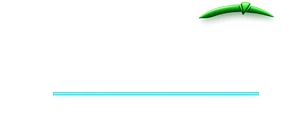
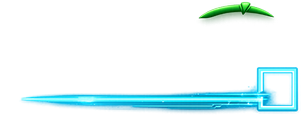
UI tweaks

Changed region(s): [[0.0586, 0.5739, 0.9967, 0.9913]]

diff --git a/selfdrive/ui/carrot.cc b/selfdrive/ui/carrot.cc
@@ -585,6 +585,8 @@ private:
     bool    lead_status = false;
     float   radarDist = 0.0;
     float   visionDist = 0.0;
+    float   leadSpeed = 0.0;
+    bool    leadSpeedValid = false;
     int     xState = 0;
     int     trafficState = 0;
 
@@ -634,6 +636,8 @@ protected:
 
         auto lead_one = sm["radarState"].getRadarState().getLeadOne();
         lead_status = lead_one.getStatus();
+        leadSpeedValid = lead_status;
+        leadSpeed = leadSpeedValid ? lead_one.getVLeadK() : 0.0;
         if (lead_status) {
             z = line.getZ()[get_path_length_idx(line, lead_one.getDRel())];
             max_distance = lead_one.getDRel();
@@ -764,32 +768,19 @@ public:
         else draw_dist = true;
 
         if (draw_dist) {
-            //float dist = (getRadarDist() > 0.0) ? getRadarDist() : getVisionDist();
-            //if (dist < 10.0) sprintf(str, "%.1f", dist);
-            //else sprintf(str, "%.0f", dist);
-            //ui_draw_text(s, x, disp_y, str, disp_size, COLOR_WHITE, BOLD);
-            int wStr = 0, w = 80;
-            float dist = radarDist * (s->scene.is_metric ? 1 : METER_TO_FOOT);
             NVGcolor text_color = (xState==0) ? COLOR_WHITE : (xState==1) ? COLOR_GREY : COLOR_GREEN;
-            if (dist > 0.0) {
-                sprintf(str, "%.1f", dist);
-                wStr = 32 * (strlen(str) + 0);
-                ui_fill_rect(s->vg, { (int)(x - w - wStr / 2), (int)(disp_y - 35), wStr, 42 }, isLeadSCC() ? COLOR_RED : COLOR_ORANGE, 15);
-                ui_draw_text(s, x - w, disp_y, str, 40, text_color, BOLD);
-            }
-            dist = visionDist * (s->scene.is_metric ? 1 : METER_TO_FOOT);
-            if (dist > 0.0) {
-                sprintf(str, "%.1f", dist);
-                wStr = 32 * (strlen(str) + 0);
-                ui_fill_rect(s->vg, { (int)(x + w - wStr / 2), (int)(disp_y - 35), wStr, 42 }, COLOR_BLUE, 15);
-                ui_draw_text(s, x + w, disp_y, str, 40, text_color, BOLD);
+            if (leadSpeedValid) {
+                float lead_speed_disp = leadSpeed * (s->scene.is_metric ? MS_TO_KPH : MS_TO_MPH);
+                sprintf(str, "%.0f", lead_speed_disp);
+                int wStr = 36 * (int)strlen(str);
+                ui_fill_rect(s->vg, { (int)(x - wStr / 2), (int)(disp_y - 35), wStr, 42 }, isLeadSCC() ? COLOR_RED : COLOR_ORANGE, 15);
+                ui_draw_text(s, x, disp_y + 58, str, 60, text_color, BOLD);
             }
         }
         QPolygonF tf_vertext;
         if (tf_distance > 0) {
           tf_vertext.push_back(tf_vertex_left);
           tf_vertext.push_back(tf_vertex_right);
-          ui_draw_line(s, tf_vertext, nullptr, nullptr, 3.0, COLOR_WHITE);
           sprintf(str, "%.1f(%.2f)", tf_distance, t_follow);
           ui_draw_text(s, tf_vertex_right.x(), tf_vertex_right.y(), str, 25, COLOR_WHITE, BOLD);
         }
@@ -2906,7 +2897,7 @@ protected:
         ui_fill_rect(vg, {x, y, w, h}, COLOR_BLACK_ALPHA(150), 20);
         if (!active) return;
 
-        float phase = (float)(blinker_anim_phase % 24) / 23.0f;
+        float phase = (float)(blinker_anim_phase % 18) / 17.0f;
         float progress = (phase < 0.5f) ? (phase * 2.0f) : 1.0f;
         float center_y = y + h / 2.0f;
         int fill_h = (int)(h * progress);
@@ -2977,7 +2968,7 @@ public:
         ui_fill_rect(vg, { 0, h / 2 + 100, w, h }, bottom_bar, 15);
 
         int blink_w = 84;
-        int blink_h = 384;
+        int blink_h = 420;
         int blink_y = h / 2 - blink_h / 2;
         draw_blinker_lane(vg, w - blink_w, blink_y, blink_w, blink_h, _right_blinker);
         draw_blinker_lane(vg, 0, blink_y, blink_w, blink_h, _left_blinker);
@@ -2995,82 +2986,6 @@ public:
         if (x_st > w - 50) x_st = w - 50;
         if (x_ed > w) x_ed = w;
         ui_fill_rect(vg, { x_st, 0, x_ed - x_st, 30 }, COLOR_ORANGE, 15);
-
-
-        char top[256] = "", top_left[256] = "", top_right[256] = "";
-        char bottom[256] = "", bottom_left[256] = "", bottom_right[256] = "";
-
-        Params params = Params();
-        QString str;
-
-        // top
-        str = QString::fromStdString(car_state.getLogCarrot());
-        sprintf(top, "%s", str.toStdString().c_str());
-        // top_right
-        const auto live_delay = sm["liveDelay"].getLiveDelay();
-        const auto live_torque_params = sm["liveTorqueParameters"].getLiveTorqueParameters();
-        const auto live_params = sm["liveParameters"].getLiveParameters();
-        str.sprintf("LD[%.0f%%,%.2f],LT[%.0f%%,%s](%.2f/%.2f), SR(%.1f,%.1f)",
-            (float)live_delay.getCalPerc(), live_delay.getLateralDelay(),
-            (float)live_torque_params.getCalPerc(), live_torque_params.getLiveValid() ? "ON" : "OFF",
-            live_torque_params.getLatAccelFactorFiltered(), live_torque_params.getFrictionCoefficientFiltered(),
-            live_params.getSteerRatio(), params.getFloat("CustomSR")/10.0);
-        sprintf(top_right, "%s", str.toStdString().c_str());
-
-        //top_left
-        QString carName = QString::fromStdString(params.get("CarName"));
-        bool longitudinal_control = sm["carParams"].getCarParams().getOpenpilotLongitudinalControl();
-        if (params.getInt("HyundaiCameraSCC") > 0) {
-            carName += "(CAMERA SCC)";
-        }
-        else if (longitudinal_control) {
-            carName += " - OP Long";
-        }
-        QString NNFFModelName = QString::fromStdString(params.get("NNFFModelName"));
-        if (NNFFModelName.length() > 0) {
-            carName += ",NNFF";
-        }
-        sprintf(top_left, "%s", carName.toStdString().c_str());
-
-        // bottom
-        const auto lat_plan = sm["lateralPlan"].getLateralPlan();
-        str = lat_plan.getLatDebugText().cStr();
-        strcpy(bottom, str.toStdString().c_str());
-
-        // bottom_left
-        QString gitBranch = QString::fromStdString(params.get("GitBranch"));
-        sprintf(bottom_left, "%s", gitBranch.toStdString().c_str());
-
-        // bottom_right
-        Params params_memory = Params("/dev/shm/params");
-        if (false && carrot_man_debug[0] != 0 && params.getInt("ShowDebugUI") > 0) {
-            strcpy(bottom_right, carrot_man_debug);
-        }
-        else {
-            QString ipAddress = QString::fromStdString(params_memory.get("NetworkAddress"));
-            //extern QString gitBranch;
-            sprintf(bottom_right, "%s", ipAddress.toStdString().c_str());
-        }
-
-        int text_margin = 30;
-        // top
-        nvgTextAlign(vg, NVG_ALIGN_CENTER | NVG_ALIGN_TOP);
-        ui_draw_text_vg(vg, w / 2, 0, top, 30, COLOR_WHITE, BOLD);
-        // top left
-        nvgTextAlign(vg, NVG_ALIGN_LEFT | NVG_ALIGN_TOP);
-        ui_draw_text_vg(vg, text_margin, 0, top_left, 30, COLOR_WHITE, BOLD);
-        // top right
-        nvgTextAlign(vg, NVG_ALIGN_RIGHT | NVG_ALIGN_TOP);
-        ui_draw_text_vg(vg, w - text_margin, 0, top_right, 30, COLOR_WHITE, BOLD);
-        // bottom
-        nvgTextAlign(vg, NVG_ALIGN_CENTER | NVG_ALIGN_BOTTOM);
-        ui_draw_text_vg(vg, w / 2, h, bottom, 30, COLOR_WHITE, BOLD);
-        // bottom left
-        nvgTextAlign(vg, NVG_ALIGN_LEFT | NVG_ALIGN_BOTTOM);
-        ui_draw_text_vg(vg, text_margin, h, bottom_left, 30, COLOR_WHITE, BOLD);
-        // bottom right
-        nvgTextAlign(vg, NVG_ALIGN_RIGHT | NVG_ALIGN_BOTTOM);
-        ui_draw_text_vg(vg, w- text_margin, h, bottom_right, 30, COLOR_WHITE, BOLD);
 
         //drawTpms(s, w, h);
     }
